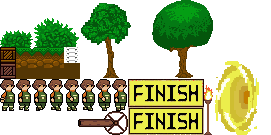
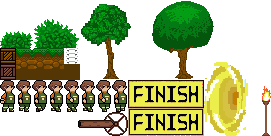
Revert "Merge remote-tracking branch 'origin/game-mechanics' into game-mechanics"
This reverts commit 1cc6ca997c2c62e3af2d49fad7f68b4a6e976f72.

diff --git a/scripts/scenes/GameScene.js b/scripts/scenes/GameScene.js
@@ -5,9 +5,11 @@ export default class GameScene extends CORE.Scene {
     onInitialize() {
 		this.resources.addTextureInLoadQueue('ball', 'resources/ball.png');
 		this.resources.addTextureInLoadQueue('coin', 'resources/coin.png');
+		this.resources.addTextureInLoadQueue('checkPoint', 'resources/checkPoint.png');
 		this.resources.addTextureInLoadQueue('extraLife', 'resources/extraLife.png');
 		this.resources.addTextureInLoadQueue('spike', 'resources/spike.png');
 		this.resources.addTextureInLoadQueue('laser', 'resources/laser.png');
+		this.resources.addTextureInLoadQueue('turrel', 'resources/turrel.png');
 		this.resources.addTextureInLoadQueue('trampoline', 'resources/trampoline.png');
 		this.resources.addTextureInLoadQueue('rail', 'resources/rail.png');
 		this.resources.addTextureInLoadQueue('hero', 'resources/hero.png');
@@ -19,9 +21,6 @@ export default class GameScene extends CORE.Scene {
 			path: 'resources/map.png',
 			pixelsPerUnit: 16,
 			tiles: [
-				['door', new CORE.Rect(210, 60, 40, 100)],
-				['checkPoint', new CORE.Rect(250, 87, 20, 95)],
-				['turrel', new CORE.Rect(69, 112, 59, 28)],
 				['3', new CORE.Rect(16, 48, 16, 16)],
 				['1', new CORE.Rect(32, 48, 16, 16)],
 				['2', new CORE.Rect(48, 48, 16, 16)],
@@ -165,10 +164,10 @@ export default class GameScene extends CORE.Scene {
         const door = new CORE.GameObject({
 			name: 'door',
 			position,
-			scale: new CORE.Vector2d(0.5, 0.5),
+			scale: new CORE.Vector2d(0.4, 0.4),
 			components: [
 				new CORE.SpriteRenderer({
-					sprite: this.resources.getTiles('tileset').get('door'),
+                    sprite: new CORE.Sprite(this.resources.getTexture('extraLife')),
                 }),
 				new MECH.Door(nextLevel, hero),
 				new CORE.CircleCollider(2.27),
@@ -383,7 +382,7 @@ export default class GameScene extends CORE.Scene {
             position: position,
             components: [
 				new CORE.SpriteRenderer({
-					sprite: this.resources.getTiles('tileset').get('checkPoint'),
+					sprite: new CORE.Sprite(this.resources.getTexture('checkPoint')),
 					layer,
 				}),
                 new CORE.BoxCollider(1, 1),
@@ -400,7 +399,7 @@ export default class GameScene extends CORE.Scene {
             rotation: rotation,
             components: [
                 new CORE.SpriteRenderer({
-					sprite: this.resources.getTiles('tileset').get('turrel'),
+					sprite: new CORE.Sprite(this.resources.getTexture('turrel')),
 					layer: 2,
 				}),
                 new CORE.BoxCollider(4, 3.4),

diff --git a/scripts/scenes/Level3.js b/scripts/scenes/Level3.js
@@ -40,13 +40,13 @@ export default class Level3 extends GameScene {
         this.createRailSpike(3, new CORE.Vector2d(-76, 4.8), 5);
         this.createRailSpike(4, new CORE.Vector2d(-73, 4.8), 7);
 		this.createRailSpike(2.7, new CORE.Vector2d(-70, 4.8), 5);
-        this.createCoin(new CORE.Vector2d(-73, 5));
-        this.createCheckPoint(new CORE.Vector2d(-63, 4.5));
+        this.createCoin(new CORE.Vector2d(-73, 4.9));
+        this.createCheckPoint(new CORE.Vector2d(-63, 5.1));
         this.createLadder(new CORE.Vector2d(-60, -0.5), 9);
         this.createTurrel(new CORE.Vector2d(-48.5, -4), Math.PI / 2, 3.5, 2);
         this.createTurrel(new CORE.Vector2d(-43.5, -4), Math.PI / 2, 3.5, 2);
         this.createTurrel(new CORE.Vector2d(-38.5, -4), Math.PI / 2, 3.5, 2);
-        this.createCoin(new CORE.Vector2d(-32, 2));
+        this.createCoin(new CORE.Vector2d(-32, 1.9));
         this.createTurrel(new CORE.Vector2d(-33.5, -4), Math.PI / 2, 3.5, 2);
         this.createTurrel(new CORE.Vector2d(-28.5, -4), Math.PI / 2, 3.5, 2);
         this.createTurrel(new CORE.Vector2d(-23.5, -3), Math.PI / 2, 3.5, 2);
@@ -55,11 +55,11 @@ export default class Level3 extends GameScene {
         this.createExtraLife(new CORE.Vector2d(-1.5, -3.6));
         this.createRailSpike(3, new CORE.Vector2d(3, -4.2), 4);
 		this.createRailSpike(2.7, new CORE.Vector2d(7.5, -4.2), 5);
-        this.createCoin(new CORE.Vector2d(4, -4));
+        this.createCoin(new CORE.Vector2d(4, -4.2));
         this.createRailSpike(3.2, new CORE.Vector2d(12, -4.2), 4);
         this.createTurrel(new CORE.Vector2d(16.9, -3), 0, 3, 4);
-        this.createCoin(new CORE.Vector2d(25, 2));
-        this.createCheckPoint(new CORE.Vector2d(27, 1.5));
+        this.createCoin(new CORE.Vector2d(25, 1.9));
+        this.createCheckPoint(new CORE.Vector2d(27, 2));
         this.createLadder(new CORE.Vector2d(45, -0), 9);
 		this.createTurrel(new CORE.Vector2d(51.5, -5), Math.PI / 2, 4, 3);
 		this.createExtraLife(new CORE.Vector2d(54, -0.1));

diff --git a/scripts/scenes/HardLevel3.js b/scripts/scenes/HardLevel3.js
@@ -40,13 +40,13 @@ export default class HardLevel3 extends GameScene {
         this.createRailSpike(5, new CORE.Vector2d(-76, 4.8), 5);
         this.createRailSpike(5, new CORE.Vector2d(-73, 4.8), 7);
 		this.createRailSpike(5, new CORE.Vector2d(-70, 4.8), 5);
-        this.createCoin(new CORE.Vector2d(-73, 5));
-        this.createCheckPoint(new CORE.Vector2d(-63, 4.5));
+        this.createCoin(new CORE.Vector2d(-73, 4.9));
+        this.createCheckPoint(new CORE.Vector2d(-63, 5.1));
         this.createLadder(new CORE.Vector2d(-60, -0.5), 9);
         this.createTurrel(new CORE.Vector2d(-48.5, -4), Math.PI / 2, 5, 2);
         this.createTurrel(new CORE.Vector2d(-43.5, -4), Math.PI / 2, 5, 2);
         this.createTurrel(new CORE.Vector2d(-38.5, -4), Math.PI / 2, 5, 2);
-        this.createCoin(new CORE.Vector2d(-32, 2));
+        this.createCoin(new CORE.Vector2d(-32, 1.9));
         this.createTurrel(new CORE.Vector2d(-33.5, -4), Math.PI / 2, 5, 2);
         this.createTurrel(new CORE.Vector2d(-28.5, -4), Math.PI / 2, 5, 2);
         this.createTurrel(new CORE.Vector2d(-23.5, -3), Math.PI / 2, 5, 2);
@@ -55,11 +55,11 @@ export default class HardLevel3 extends GameScene {
         this.createExtraLife(new CORE.Vector2d(-1.5, -3.6));
         this.createRailSpike(5, new CORE.Vector2d(3, -4.2), 4);
 		this.createRailSpike(5, new CORE.Vector2d(7.5, -4.2), 5);
-        this.createCoin(new CORE.Vector2d(4, -4));
+        this.createCoin(new CORE.Vector2d(4, -4.2));
         this.createRailSpike(4.5, new CORE.Vector2d(12, -4.2), 4);
         this.createTurrel(new CORE.Vector2d(16.9, -3), 0, 4, 4);
-        this.createCoin(new CORE.Vector2d(25, 2));
-        this.createCheckPoint(new CORE.Vector2d(27, 1.5));
+        this.createCoin(new CORE.Vector2d(25, 1.9));
+        this.createCheckPoint(new CORE.Vector2d(27, 2));
         this.createLadder(new CORE.Vector2d(45, -0), 9);
 		this.createTurrel(new CORE.Vector2d(51.5, -5), Math.PI / 2, 5, 3);
 		this.createExtraLife(new CORE.Vector2d(54, -0.1));

diff --git a/scripts/scenes/HardLevel5.js b/scripts/scenes/HardLevel5.js
@@ -41,7 +41,7 @@ export default class HardLevel5 extends GameScene {
         this.createTurrel(new CORE.Vector2d(-48, -2), 0, 6, 2.5);
         this.createCoin(new CORE.Vector2d(-47, 0.2));
         this.createTrampoline(new CORE.Vector2d(-42, -0.8));
-        this.createCheckPoint(new CORE.Vector2d(-30, 3.5));
+        this.createCheckPoint(new CORE.Vector2d(-30, 4.2));
         this.createLadder(new CORE.Vector2d(-26, -0.2), 7);
 		this.createExtraLife(new CORE.Vector2d(-24, -1.2));
         this.createRailSpike(5, new CORE.Vector2d(-17, -2.2), 5);
@@ -54,7 +54,7 @@ export default class HardLevel5 extends GameScene {
         this.createTurrel(new CORE.Vector2d(6.5, -2), Math.PI / 2, 6, 1);
         this.createCoin(new CORE.Vector2d(8, 1.1));
         this.createTurrel(new CORE.Vector2d(9.5, -2), Math.PI / 2, 6, 1);
-        this.createCheckPoint(new CORE.Vector2d(11, 0.5));
+        this.createCheckPoint(new CORE.Vector2d(11, 1.1));
         this.createTurrel(new CORE.Vector2d(12.5, -2), Math.PI / 2, 6, 1);
         this.createRailSpike(2.7, new CORE.Vector2d(15.5, 2.8), 4);
         this.createRailSpike(3, new CORE.Vector2d(19.5, 3.8), 4);

diff --git a/scripts/scenes/Level5.js b/scripts/scenes/Level5.js
@@ -41,7 +41,7 @@ export default class Level5 extends GameScene {
         this.createTurrel(new CORE.Vector2d(-48, -2), 0, 3, 3);
         this.createCoin(new CORE.Vector2d(-47, 0.2));
         this.createTrampoline(new CORE.Vector2d(-42, -0.8));
-        this.createCheckPoint(new CORE.Vector2d(-30, 3.5));
+        this.createCheckPoint(new CORE.Vector2d(-30, 4.2));
         this.createLadder(new CORE.Vector2d(-26, -0.2), 7);
 		this.createExtraLife(new CORE.Vector2d(-24, -1.2));
         this.createRailSpike(2.5, new CORE.Vector2d(-17, -2.2), 5);
@@ -54,7 +54,7 @@ export default class Level5 extends GameScene {
         this.createTurrel(new CORE.Vector2d(6.5, -2), Math.PI / 2, 4, 1.5);
         this.createCoin(new CORE.Vector2d(8, 1.1));
         this.createTurrel(new CORE.Vector2d(9.5, -2), Math.PI / 2, 4, 1.5);
-        this.createCheckPoint(new CORE.Vector2d(11, 0.5));
+        this.createCheckPoint(new CORE.Vector2d(11, 1.1));
         this.createTurrel(new CORE.Vector2d(12.5, -2), Math.PI / 2, 4, 1.5);
         this.createRailSpike(2, new CORE.Vector2d(15.5, 2.8), 4);
         this.createRailSpike(2.5, new CORE.Vector2d(19.5, 3.8), 4);

diff --git a/scripts/scenes/HardLevel2.js b/scripts/scenes/HardLevel2.js
@@ -1,4 +1,5 @@
 import * as CORE from '../core/Core.js';
+import * as MECH from '../mechanics/Mechanics.js';
 import GameScene from './GameScene.js';
 import HardLevel3 from './HardLevel3.js';
 
@@ -44,7 +45,7 @@ export default class HardLevel2 extends GameScene {
         this.createCoin(new CORE.Vector2d(-29, -3));
         this.createRailSpike(4, new CORE.Vector2d(-26.5, -3.2), 5);
         this.createExtraLife(new CORE.Vector2d(0, -2.5));
-        this.createCheckPoint(new CORE.Vector2d(4, -3.5));
+        this.createCheckPoint(new CORE.Vector2d(4, -2.5));
         this.createRailSpike(5, new CORE.Vector2d(11, -3.2), 5);
         this.createRailSpike(5, new CORE.Vector2d(11, 0.1), 5, Math.PI);
         this.createCoin(new CORE.Vector2d(14, -3));

diff --git a/scripts/scenes/Level2.js b/scripts/scenes/Level2.js
@@ -1,4 +1,5 @@
 import * as CORE from '../core/Core.js';
+import * as MECH from '../mechanics/Mechanics.js';
 import GameScene from './GameScene.js';
 import Level3 from './Level3.js';
 
@@ -44,7 +45,7 @@ export default class Level2 extends GameScene {
         this.createCoin(new CORE.Vector2d(-29, -3));
         this.createRailSpike(3, new CORE.Vector2d(-26.5, -3.2), 5);
         this.createExtraLife(new CORE.Vector2d(0, -2.5));
-        this.createCheckPoint(new CORE.Vector2d(4, -3.5));
+        this.createCheckPoint(new CORE.Vector2d(4, -2.5));
         this.createRailSpike(3, new CORE.Vector2d(11, -3.2), 5);
         this.createRailSpike(3, new CORE.Vector2d(11, 0.1), 5, Math.PI);
         this.createCoin(new CORE.Vector2d(14, -3));

diff --git a/scripts/scenes/HardLevel1.js b/scripts/scenes/HardLevel1.js
@@ -1,4 +1,5 @@
 import * as CORE from '../core/Core.js';
+import * as MECH from '../mechanics/Mechanics.js';
 import GameScene from './GameScene.js';
 import HardLevel2 from './HardLevel2.js';
 
@@ -88,7 +89,7 @@ export default class HardLevel1 extends GameScene {
 		this.createRailSpike(3, new CORE.Vector2d(-41, 0.5), 4, Math.PI / 2);
 		this.createRailSpike(4, new CORE.Vector2d(-38, 2), 4, Math.PI);
 		this.createExtraLife(new CORE.Vector2d(-5, 0.5));
-		this.createCheckPoint(new CORE.Vector2d(-3, -0.5));
+		this.createCheckPoint(new CORE.Vector2d(-3, 0.5));
 		this.createCoin(new CORE.Vector2d(-40.6, -0.8), -3);
 		this.createCoin(new CORE.Vector2d(-18.6, 4.7));
 		this.createCoin(new CORE.Vector2d(-11, 4));

diff --git a/scripts/scenes/Level1.js b/scripts/scenes/Level1.js
@@ -1,4 +1,5 @@
 import * as CORE from '../core/Core.js';
+import * as MECH from '../mechanics/Mechanics.js';
 import GameScene from './GameScene.js';
 import Level2 from './Level2.js';
 
@@ -88,7 +89,7 @@ export default class Level1 extends GameScene {
 		this.createRailSpike(2, new CORE.Vector2d(-41, 0.5), 4, Math.PI / 2);
 		this.createRailSpike(3.5, new CORE.Vector2d(-38, 2), 4, Math.PI);
 		this.createExtraLife(new CORE.Vector2d(-5, 0.5));
-		this.createCheckPoint(new CORE.Vector2d(-3, -0.5));
+		this.createCheckPoint(new CORE.Vector2d(-3, 0.5));
 		this.createCoin(new CORE.Vector2d(-40.6, -0.8), -3);
 		this.createCoin(new CORE.Vector2d(-18.6, 4.7));
 		this.createCoin(new CORE.Vector2d(-11, 4));

diff --git a/scripts/scenes/HardLevel4.js b/scripts/scenes/HardLevel4.js
@@ -61,7 +61,7 @@ export default class Level4 extends GameScene {
         this.createCoin(new CORE.Vector2d(35, -0.5));
         this.createCoin(new CORE.Vector2d(37, -0.5));
 		this.createCoin(new CORE.Vector2d(39, -0.5));
-        this.createDoor(new CORE.Vector2d(42, -0.3), HardLevel5, this.hero);
+        this.createDoor(new CORE.Vector2d(42, 0), HardLevel5, this.hero);
         this.createCamera(this.hero, 0.5);
 		this.createUI(this.hero);
 	}

diff --git a/scripts/scenes/Level4.js b/scripts/scenes/Level4.js
@@ -61,7 +61,7 @@ export default class Level4 extends GameScene {
         this.createCoin(new CORE.Vector2d(35, -0.5));
         this.createCoin(new CORE.Vector2d(37, -0.5));
 		this.createCoin(new CORE.Vector2d(39, -0.5));
-        this.createDoor(new CORE.Vector2d(42, -0.3), Level5, this.hero);
+        this.createDoor(new CORE.Vector2d(42, 0), Level5, this.hero);
         this.createCamera(this.hero, 0.5);
 		this.createUI(this.hero);
 	}

diff --git a/scripts/mechanics/Turrel.js b/scripts/mechanics/Turrel.js
@@ -37,7 +37,7 @@ export default class Turrel extends GameComponent {
 			} else {
 				this.laser = new GameObject({
 					name: 'laser',
-					scale: new Vector2d(0.07, 0.04),
+					scale: new Vector2d(0.1, 0.05),
 					position: this.laserPosition,
 					rotation: this.rotation,
 					components: [					
